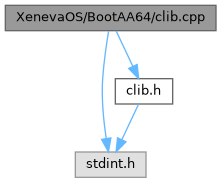
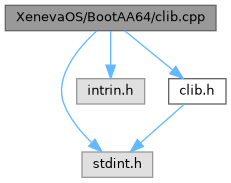
deploy: 9f33b77c50e169bb22a8537a7184b14a81a723c8

diff --git a/stdlib_8h_source.html b/stdlib_8h_source.html
@@ -205,7 +205,7 @@ $(document).ready(function() { init_codefold(0); });
 <div class="ttc" id="astdlib_8h_html_a85b14859723c6a3475048f36f46243bc"><div class="ttname"><a href="stdlib_8h.html#a85b14859723c6a3475048f36f46243bc">realloc</a></div><div class="ttdeci">XE_LIB void * realloc(void *address, unsigned int new_size)</div><div class="ttdef"><b>Definition</b> _heap.cpp:6439</div></div>
 <div class="ttc" id="astdlib_8h_html_a85ba34873df3f4c784957410cdf50866"><div class="ttname"><a href="stdlib_8h.html#a85ba34873df3f4c784957410cdf50866">atol</a></div><div class="ttdeci">XE_LIB long atol(const char *)</div></div>
 <div class="ttc" id="astdlib_8h_html_a87bd0850f14f62252c75e395d8c6c77d"><div class="ttname"><a href="stdlib_8h.html#a87bd0850f14f62252c75e395d8c6c77d">mblen</a></div><div class="ttdeci">XE_LIB int mblen(const char *, size_t)</div><div class="ttdef"><b>Definition</b> stdlib.cpp:84</div></div>
-<div class="ttc" id="astdlib_8h_html_a89e37c4f66d85f4a6d0491ec6393d56d"><div class="ttname"><a href="stdlib_8h.html#a89e37c4f66d85f4a6d0491ec6393d56d">sztoa</a></div><div class="ttdeci">XE_LIB char * sztoa(size_t value, char *str, int base)</div><div class="ttdef"><b>Definition</b> clib.cpp:114</div></div>
+<div class="ttc" id="astdlib_8h_html_a89e37c4f66d85f4a6d0491ec6393d56d"><div class="ttname"><a href="stdlib_8h.html#a89e37c4f66d85f4a6d0491ec6393d56d">sztoa</a></div><div class="ttdeci">XE_LIB char * sztoa(size_t value, char *str, int base)</div><div class="ttdef"><b>Definition</b> clib.cpp:115</div></div>
 <div class="ttc" id="astdlib_8h_html_a917d4a3896bf12c2df81b8dacfba53cb"><div class="ttname"><a href="stdlib_8h.html#a917d4a3896bf12c2df81b8dacfba53cb">vsprintf</a></div><div class="ttdeci">XE_LIB int vsprintf(char *str, const char *format, va_list ap)</div><div class="ttdef"><b>Definition</b> stdio.cpp:343</div></div>
 <div class="ttc" id="astdlib_8h_html_a9b24d5b3c4fe645dbf55be0a8b928c1a"><div class="ttname"><a href="stdlib_8h.html#a9b24d5b3c4fe645dbf55be0a8b928c1a">calloc</a></div><div class="ttdeci">XE_LIB void * calloc(unsigned long long num, unsigned long long size)</div><div class="ttdef"><b>Definition</b> _heap.cpp:6448</div></div>
 <div class="ttc" id="astdlib_8h_html_aa8b85076879db9406b0a0f93fea9aadc"><div class="ttname"><a href="stdlib_8h.html#aa8b85076879db9406b0a0f93fea9aadc">malloc</a></div><div class="ttdeci">XE_LIB void * malloc(unsigned int)</div><div class="ttdef"><b>Definition</b> _heap.cpp:6422</div></div>

diff --git a/BaseHdr_2stdio_8h_source.html b/BaseHdr_2stdio_8h_source.html
@@ -122,7 +122,7 @@ $(document).ready(function() { init_codefold(0); });
 <div class="ttc" id="aBaseHdr_2stdio_8h_html_a30670a60464f77af17dfb353353d6df8"><div class="ttname"><a href="BaseHdr_2stdio_8h.html#a30670a60464f77af17dfb353353d6df8">atoi</a></div><div class="ttdeci">int atoi(const char *s)</div><div class="ttdef"><b>Definition</b> stdio.cpp:107</div></div>
 <div class="ttc" id="aBaseHdr_2stdio_8h_html_a340d11725e5c81a874f508fbcdf1c5ef"><div class="ttname"><a href="BaseHdr_2stdio_8h.html#a340d11725e5c81a874f508fbcdf1c5ef">memmove</a></div><div class="ttdeci">void * memmove(void *dest, const void *src, size_t n)</div></div>
 <div class="ttc" id="aBaseHdr_2stdio_8h_html_a6e835c0222425ccaf729bf308ea705a4"><div class="ttname"><a href="BaseHdr_2stdio_8h.html#a6e835c0222425ccaf729bf308ea705a4">printf</a></div><div class="ttdeci">AU_EXTERN AU_EXPORT void printf(const char *format,...)</div><div class="ttdef"><b>Definition</b> stdio.cpp:121</div></div>
-<div class="ttc" id="aBaseHdr_2stdio_8h_html_a7c3010fe8e9e968e4040f8608ba4cd34"><div class="ttname"><a href="BaseHdr_2stdio_8h.html#a7c3010fe8e9e968e4040f8608ba4cd34">sztoa</a></div><div class="ttdeci">AU_EXTERN AU_EXPORT char * sztoa(uint64_t value, char *str, int base)</div><div class="ttdef"><b>Definition</b> clib.cpp:114</div></div>
+<div class="ttc" id="aBaseHdr_2stdio_8h_html_a7c3010fe8e9e968e4040f8608ba4cd34"><div class="ttname"><a href="BaseHdr_2stdio_8h.html#a7c3010fe8e9e968e4040f8608ba4cd34">sztoa</a></div><div class="ttdeci">AU_EXTERN AU_EXPORT char * sztoa(uint64_t value, char *str, int base)</div><div class="ttdef"><b>Definition</b> clib.cpp:115</div></div>
 <div class="ttc" id="aBaseHdr_2stdio_8h_html_ac45fdeab51c3197c1e7c4ec7beabaca9"><div class="ttname"><a href="BaseHdr_2stdio_8h.html#ac45fdeab51c3197c1e7c4ec7beabaca9">getchar</a></div><div class="ttdeci">int getchar()</div><div class="ttdef"><b>Definition</b> stdio.cpp:385</div></div>
 <div class="ttc" id="aBaseHdr_2stdio_8h_html_af46ab524338d5ac94367544b085930dd"><div class="ttname"><a href="BaseHdr_2stdio_8h.html#af46ab524338d5ac94367544b085930dd">srand</a></div><div class="ttdeci">void srand(uint32_t seed)</div><div class="ttdef"><b>Definition</b> stdio.cpp:142</div></div>
 <div class="ttc" id="aLibs_2XEClib_2includes_2stdint_8h_html"><div class="ttname"><a href="Libs_2XEClib_2includes_2stdint_8h.html">stdint.h</a></div></div>

diff --git a/BootAA64_2clib_8cpp.html b/BootAA64_2clib_8cpp.html
@@ -80,6 +80,7 @@ $(function() {
 </div><!--header-->
 <div class="contents">
 <div class="textblock"><code>#include &lt;stdint.h&gt;</code><br />
+<code>#include &lt;intrin.h&gt;</code><br />
 <code>#include &quot;<a class="el" href="BootAA64_2clib_8h_source.html">clib.h</a>&quot;</code><br />
 </div><div class="textblock"><div class="dynheader">
 Include dependency graph for clib.cpp:</div>
@@ -87,11 +88,13 @@ Include dependency graph for clib.cpp:</div>
 <div class="center"><img src="BootAA64_2clib_8cpp__incl.png" border="0" usemap="#aXenevaOS_2BootAA64_2clib_8cpp" alt=""/></div>
 <map name="aXenevaOS_2BootAA64_2clib_8cpp" id="aXenevaOS_2BootAA64_2clib_8cpp">
 <area shape="rect" title=" " alt="" coords="5,5,216,31"/>
-<area shape="rect" title=" " alt="" coords="75,152,146,177"/>
-<area shape="poly" title=" " alt="" coords="111,31,105,79,109,138,104,138,100,79,106,31"/>
-<area shape="rect" href="BootAA64_2clib_8h.html" title=" " alt="" coords="115,79,173,104"/>
-<area shape="poly" title=" " alt="" coords="119,30,135,65,130,67,114,32"/>
-<area shape="poly" title=" " alt="" coords="141,105,124,141,119,139,136,103"/>
+<area shape="rect" title=" " alt="" coords="82,152,153,177"/>
+<area shape="poly" title=" " alt="" coords="99,33,72,64,65,84,67,103,78,123,94,141,90,144,74,126,61,105,60,83,68,62,95,29"/>
+<area shape="rect" title=" " alt="" coords="77,79,145,104"/>
+<area shape="poly" title=" " alt="" coords="113,31,113,65,108,65,108,31"/>
+<area shape="rect" href="BootAA64_2clib_8h.html" title=" " alt="" coords="169,79,226,104"/>
+<area shape="poly" title=" " alt="" coords="126,29,174,68,171,72,123,33"/>
+<area shape="poly" title=" " alt="" coords="186,106,142,145,139,141,183,102"/>
 </map>
 </div>
 </div><table class="memberdecls">
